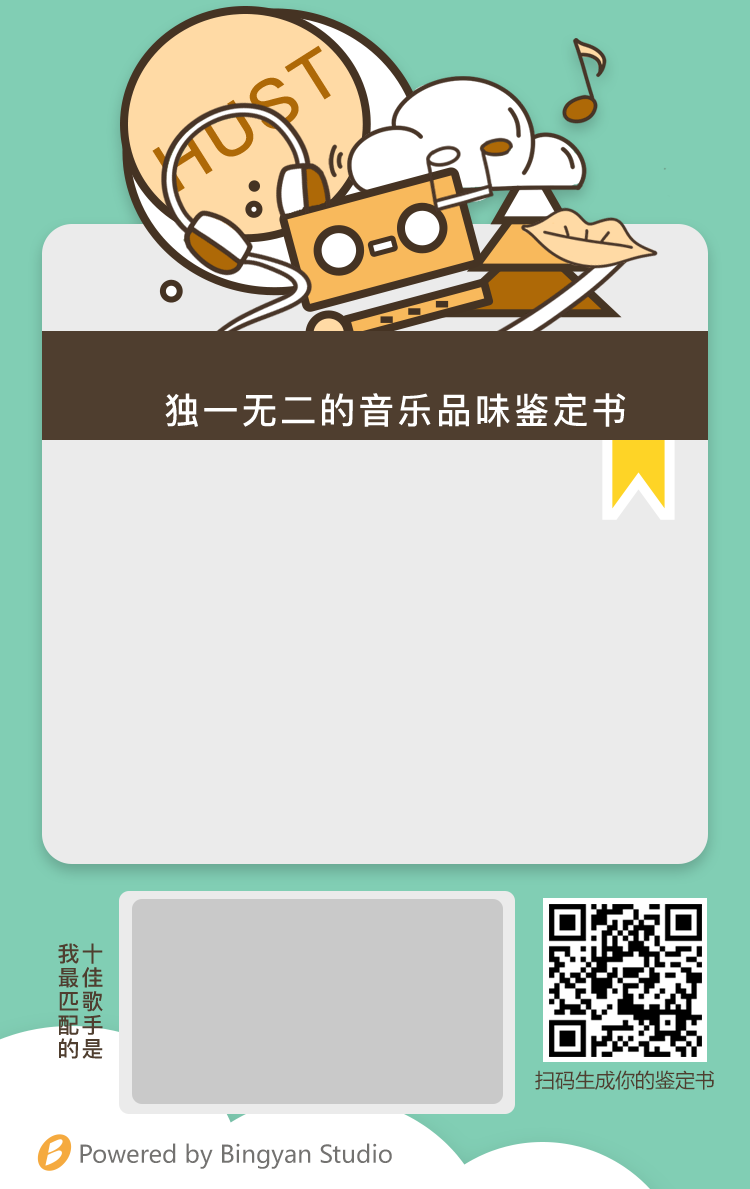
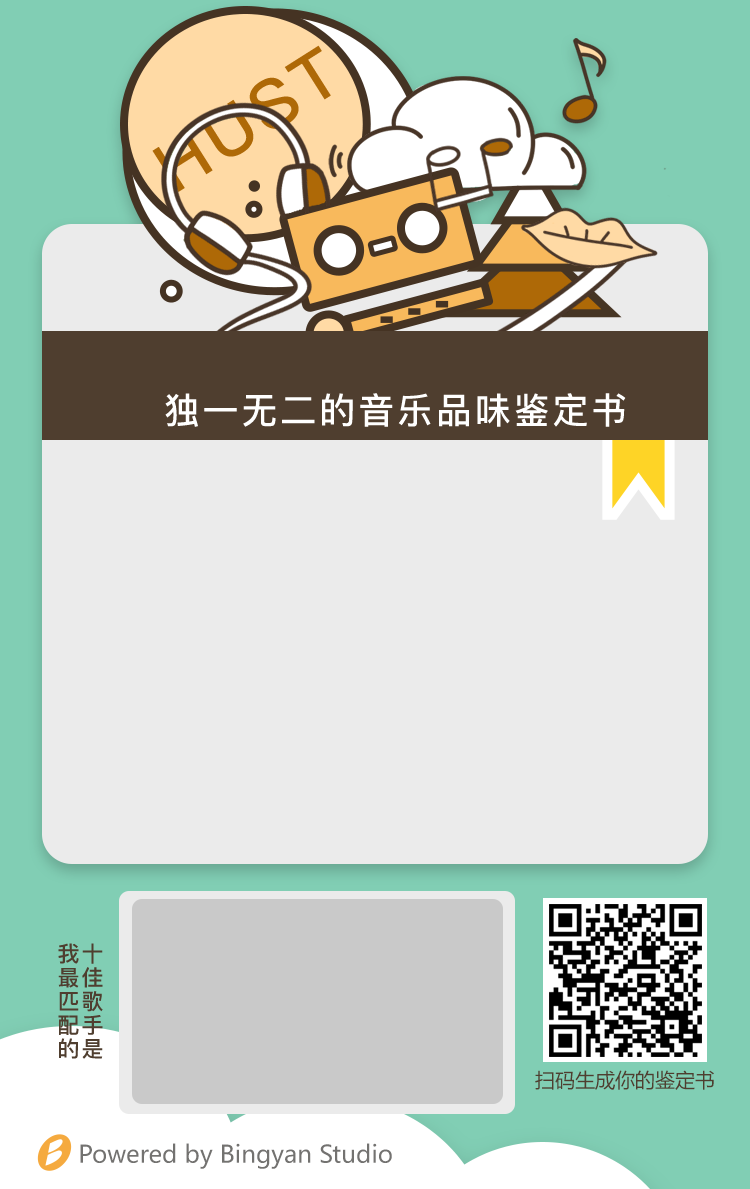
💄 fix: change qrcode

Changed region(s): [[0.736, 0.7468, 0.9507, 0.9024]]

diff --git a/src/plugins/wx.js b/src/plugins/wx.js
@@ -25,12 +25,12 @@ const wxShareConfig = {
   imgUrl: `https://weixin.bingyan-tech.hustonline.net/top-singers-index/${shareIcon}` // 分享图标
 };
 
-const wxShare = (config = wxShareConfig) => wx.ready(() => {
+const wxShare = (config = wxShareConfig) => {
   wx.onMenuShareTimeline(config);
   wx.onMenuShareAppMessage(config);
   wx.onMenuShareQQ(config);
   wx.onMenuShareWeibo(config);
   wx.onMenuShareQZone(config);
-});
+};
 
 export default wxShare;
